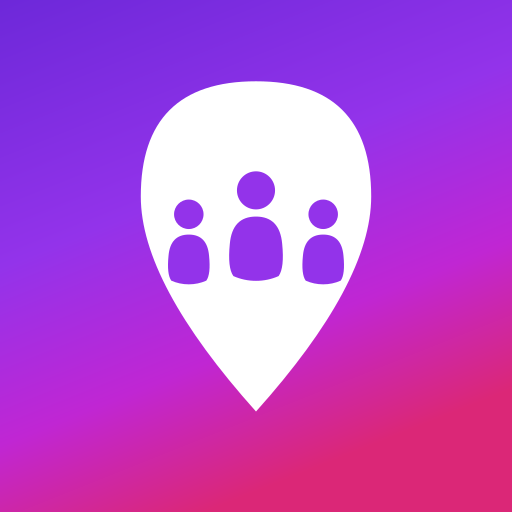
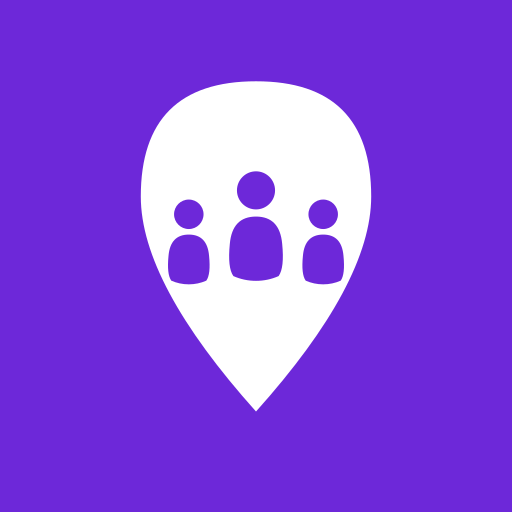
One brand colour for the mark everywhere
The mark was three different purples depending on where it appeared: a
four-stop gradient on the map pins and the app icon, #9333ea for the
figures, and now a violet-700 nav. All of it is violet-700 now, exported
as BRAND from Logo.tsx so the map markers — raw SVG strings handed to
Leaflet, outside anything the type system watches — can't drift from it
again.

Flattening the pins also drops the per-marker gradient <defs>, which
needed a unique id each: with a shared one, the first marker Leaflet
unmounted took the definition down and left the rest unpainted.

Claude-Session: https://claude.ai/code/session_01C32e5w2oU3UqfyjaxT4H8Y

diff --git a/src/components/ActivitiesMap.tsx b/src/components/ActivitiesMap.tsx
@@ -8,6 +8,7 @@ import Link from "next/link";
 import { format } from "date-fns";
 import "leaflet/dist/leaflet.css";
 import { categoryFor } from "@/lib/categories";
+import { BRAND } from "@/components/Logo";
 
 // Pulls a "5:30"-style mm:ss out of a free-text pace field (the form just
 // takes a string, e.g. "5:30 / km", "easy", "6 min miles"), so the pin
@@ -43,8 +44,8 @@ function pinLabel(distanceKm: number | null, pace: string | null): string | null
 }
 
 // The app's own logo as the map marker: the same teardrop from
-// src/components/Logo.tsx, in the brand gradient, with the category emoji
-// sitting in a white disc where the logo's three figures go.
+// src/components/Logo.tsx, in the same brand violet, with the category
+// emoji sitting in a white disc where the logo's three figures go.
 //
 // Built as a plain divIcon since Leaflet manages its icons as DOM outside
 // React. Styling lives in globals.css (.map-pin and friends) because
@@ -54,22 +55,14 @@ function pinLabel(distanceKm: number | null, pace: string | null): string | null
 const PIN_W = 44;
 const PIN_H = 63;
 
-function emojiIcon(emoji: string, label: string | null, uid: string) {
-  // Every marker carries its own copy of the gradient, so the id has to be
-  // unique: with a shared one, whichever marker Leaflet happens to unmount
-  // first would take the definition down and leave the rest unpainted.
-  const gradientId = `map-pin-grad-${uid}`;
+function emojiIcon(emoji: string, label: string | null) {
+  // A flat fill, so nothing here depends on a <defs> id. The gradient this
+  // replaced needed one copy per marker with a unique id, or whichever
+  // marker Leaflet unmounted first took the definition down and left the
+  // rest unpainted.
   const svg = `
     <svg class="map-pin-svg" viewBox="136 74 240 344" aria-hidden="true">
-      <defs>
-        <linearGradient id="${gradientId}" x1="0" y1="0" x2="0.4" y2="1">
-          <stop offset="0%" stop-color="#6d28d9"/>
-          <stop offset="45%" stop-color="#9333ea"/>
-          <stop offset="75%" stop-color="#c026d3"/>
-          <stop offset="100%" stop-color="#db2777"/>
-        </linearGradient>
-      </defs>
-      <path d="M256 74 q-120 0 -120 120 q0 90 120 224 q120 -134 120 -224 q0 -120 -120 -120 Z" fill="url(#${gradientId})"/>
+      <path d="M256 74 q-120 0 -120 120 q0 90 120 224 q120 -134 120 -224 q0 -120 -120 -120 Z" fill="${BRAND}"/>
       <circle cx="256" cy="196" r="80" fill="#fff"/>
     </svg>`;
   const pin = `<div class="map-pin">${svg}<span class="map-pin-emoji">${emoji}</span></div>`;
@@ -268,7 +261,7 @@ export default function ActivitiesMap({
     for (const a of activities) {
       map.set(
         a.id,
-        emojiIcon(categoryFor(a.category).emoji, pinLabel(a.distanceKm, a.pace), a.id)
+        emojiIcon(categoryFor(a.category).emoji, pinLabel(a.distanceKm, a.pace))
       );
     }
     return map;

diff --git a/src/components/Logo.tsx b/src/components/Logo.tsx
@@ -4,25 +4,32 @@
 // instead of whatever 🏃 happens to be on that platform. The same geometry
 // builds the home-screen icons in scripts/generate-icons.mjs; change one,
 // change the other.
+
+/** The one brand colour. The nav bar, the map pins and the app icon are
+ *  all this violet, and it's the top stop of the page gradient in
+ *  globals.css, so the mark never disagrees with what's behind it.
+ *  Exported so the map markers, which are built as raw SVG strings for
+ *  Leaflet, can't quietly drift away from it. */
+export const BRAND = "#6d28d9";
+
 /** Which way round the mark is drawn.
  *
- * "gradient" (default) is a gradient drop with white figures, for light
- * surfaces like the nav. "white" inverts it, which is what the purple page
- * background needs: the gradient version shares its colours with that
- * background, so the top of the drop dissolves into it and only the
- * magenta half stays visible. The app icon is the white version too. */
+ * "brand" (default) is a violet drop with white figures, for light
+ * surfaces. "white" inverts it, a white drop with violet figures, which
+ * is what the violet nav and the purple page background need: violet on
+ * violet has nothing to stand against. */
 export default function Logo({
   size = 26,
   className = "",
-  variant = "gradient",
+  variant = "brand",
 }: {
   size?: number;
   className?: string;
-  variant?: "gradient" | "white";
+  variant?: "brand" | "white";
 }) {
   const white = variant === "white";
-  const dropFill = white ? "#fff" : "url(#packmates-mark)";
-  const figureFill = white ? "#9333ea" : "#fff";
+  const dropFill = white ? "#fff" : BRAND;
+  const figureFill = white ? BRAND : "#fff";
   return (
     <svg
       width={size * (240 / 344)}
@@ -32,14 +39,6 @@ export default function Logo({
       aria-label="Packmates"
       className={`shrink-0 ${className}`}
     >
-      <defs>
-        <linearGradient id="packmates-mark" x1="0" y1="0" x2="0.4" y2="1">
-          <stop offset="0%" stopColor="#6d28d9" />
-          <stop offset="45%" stopColor="#9333ea" />
-          <stop offset="75%" stopColor="#c026d3" />
-          <stop offset="100%" stopColor="#db2777" />
-        </linearGradient>
-      </defs>
       <path
         d="M256 74 q-120 0 -120 120 q0 90 120 224 q120 -134 120 -224 q0 -120 -120 -120 Z"
         fill={dropFill}

diff --git a/src/app/globals.css b/src/app/globals.css
@@ -92,7 +92,7 @@ body {
 }
 
 /* Map markers (ActivitiesMap): the app's own logo drop, in the brand
-   gradient, with the meetup's emoji in the white disc. Plain CSS, not
+   violet, with the meetup's emoji in the white disc. Plain CSS, not
    Tailwind classes: this HTML is handed to Leaflet as a raw string and
    mounted outside React, so it needs a real stylesheet rule to target. */
 .map-pin {
